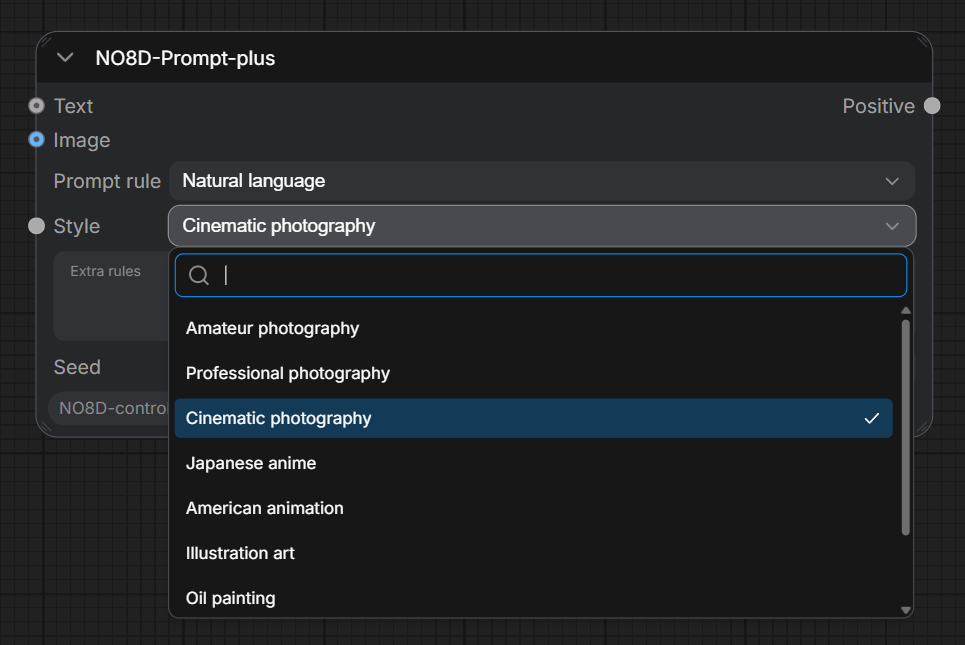
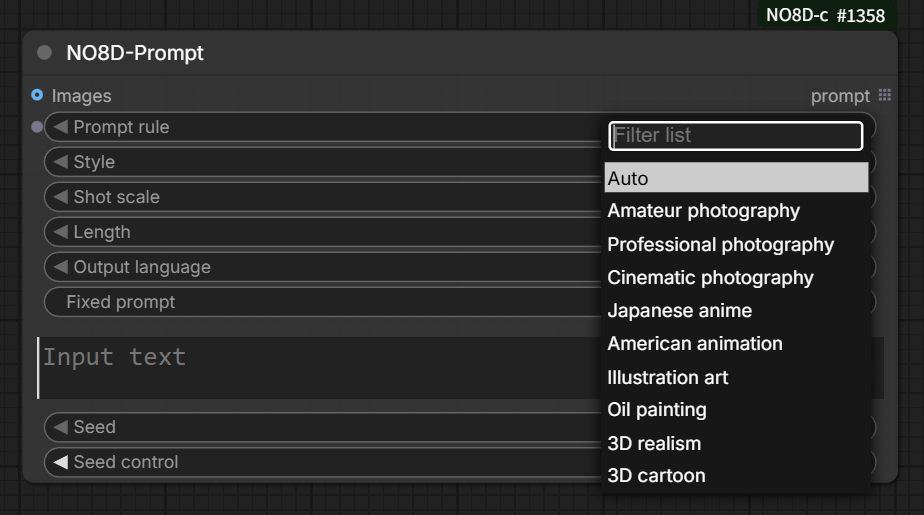
Update README node screenshots

Changed region(s): [[0.0303, 0.0, 1.0, 0.9631], [0.6364, 0.7146, 0.7879, 0.7456], [0.9091, 0.932, 0.9394, 0.9631]]

diff --git a/README.md b/README.md
@@ -66,6 +66,8 @@ Applies multiple LoRAs to a model without requiring a CLIP input.
 
 Expands short ideas, image references, or both into a complete positive prompt through the configured prompt API.
 
+![NO8D-Prompt](docs/images/prompt-plus-node.png)
+
 Input modes:
 
 - Text only: use `输入文本 / Input text` as the user's idea and expand it into a structured image prompt.
@@ -78,9 +80,13 @@ Input modes:
 
 Displays prompt text, allows manual editing, and can send the edited text downstream without rebuilding the whole workflow manually.
 
+![NO8D-Prompt-view](docs/images/prompt-view-node.png)
+
 ### NO8D-Load-images
 
 Loads one or many local images into the workflow.
+
+![NO8D-Load-images](docs/images/load-images-node.png)
 
 - Drag files into the node or use the folder button.
 - Select one or multiple images.

diff --git a/README.zh-CN.md b/README.zh-CN.md
@@ -63,6 +63,8 @@ NO8D-图像载入 -> NO8D-提示词 -> NO8D-提示词预览 / NO8D-图文保存
 
 通过配置好的提示词 API，把简短想法、参考图像，或两者一起整理成完整正向提示词。
 
+![NO8D-提示词](docs/images/prompt-plus-node.png)
+
 三种输入情况：
 
 - 只输入文本：在 `输入文本 / Input text` 中写想法，节点会扩写为完整图像提示词。
@@ -75,9 +77,13 @@ NO8D-图像载入 -> NO8D-提示词 -> NO8D-提示词预览 / NO8D-图文保存
 
 显示提示词文本，支持手动编辑，并可把编辑后的文本发送到后续节点。
 
+![NO8D-提示词预览](docs/images/prompt-view-node.png)
+
 ### NO8D-图像载入
 
 用于把一张或多张本地图像载入工作流。
+
+![NO8D-图像载入](docs/images/load-images-node.png)
 
 - 支持点击文件夹按钮选择图像，也支持拖拽图像到节点。
 - 支持单选和多选。